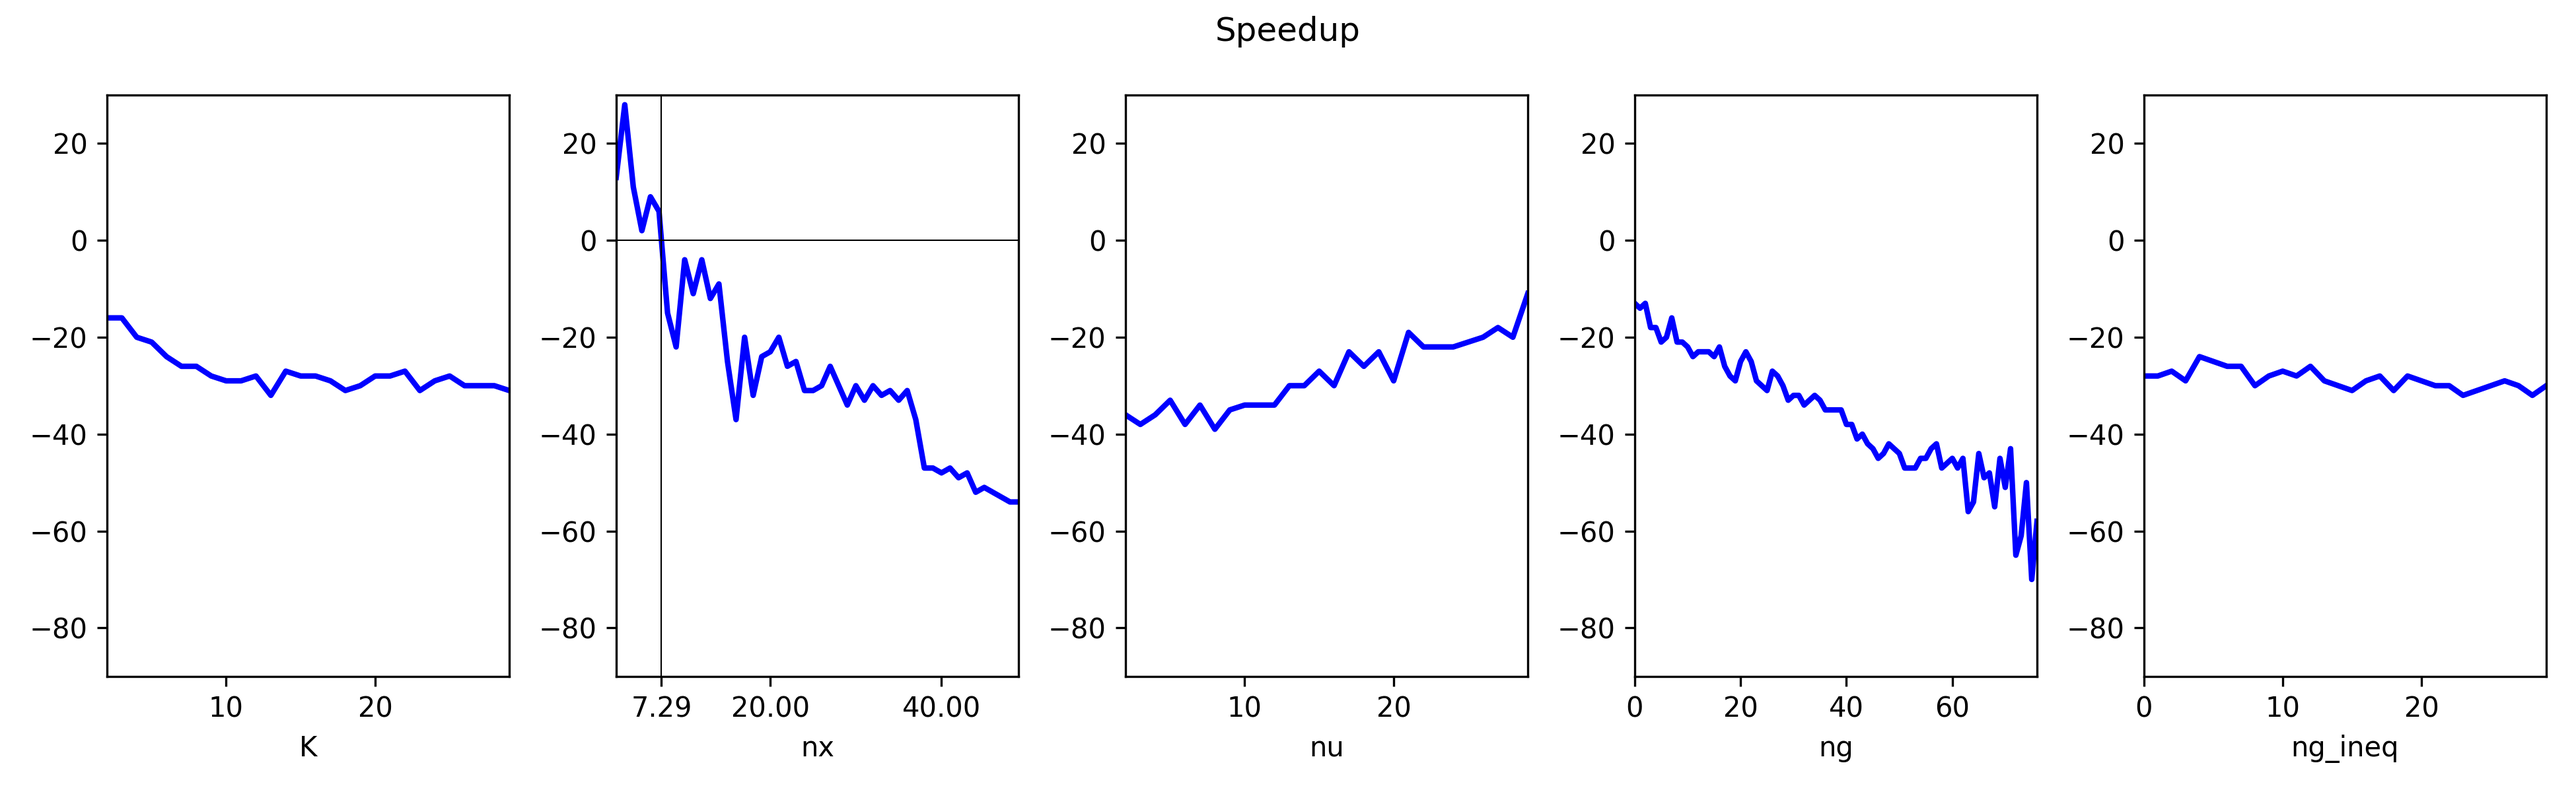
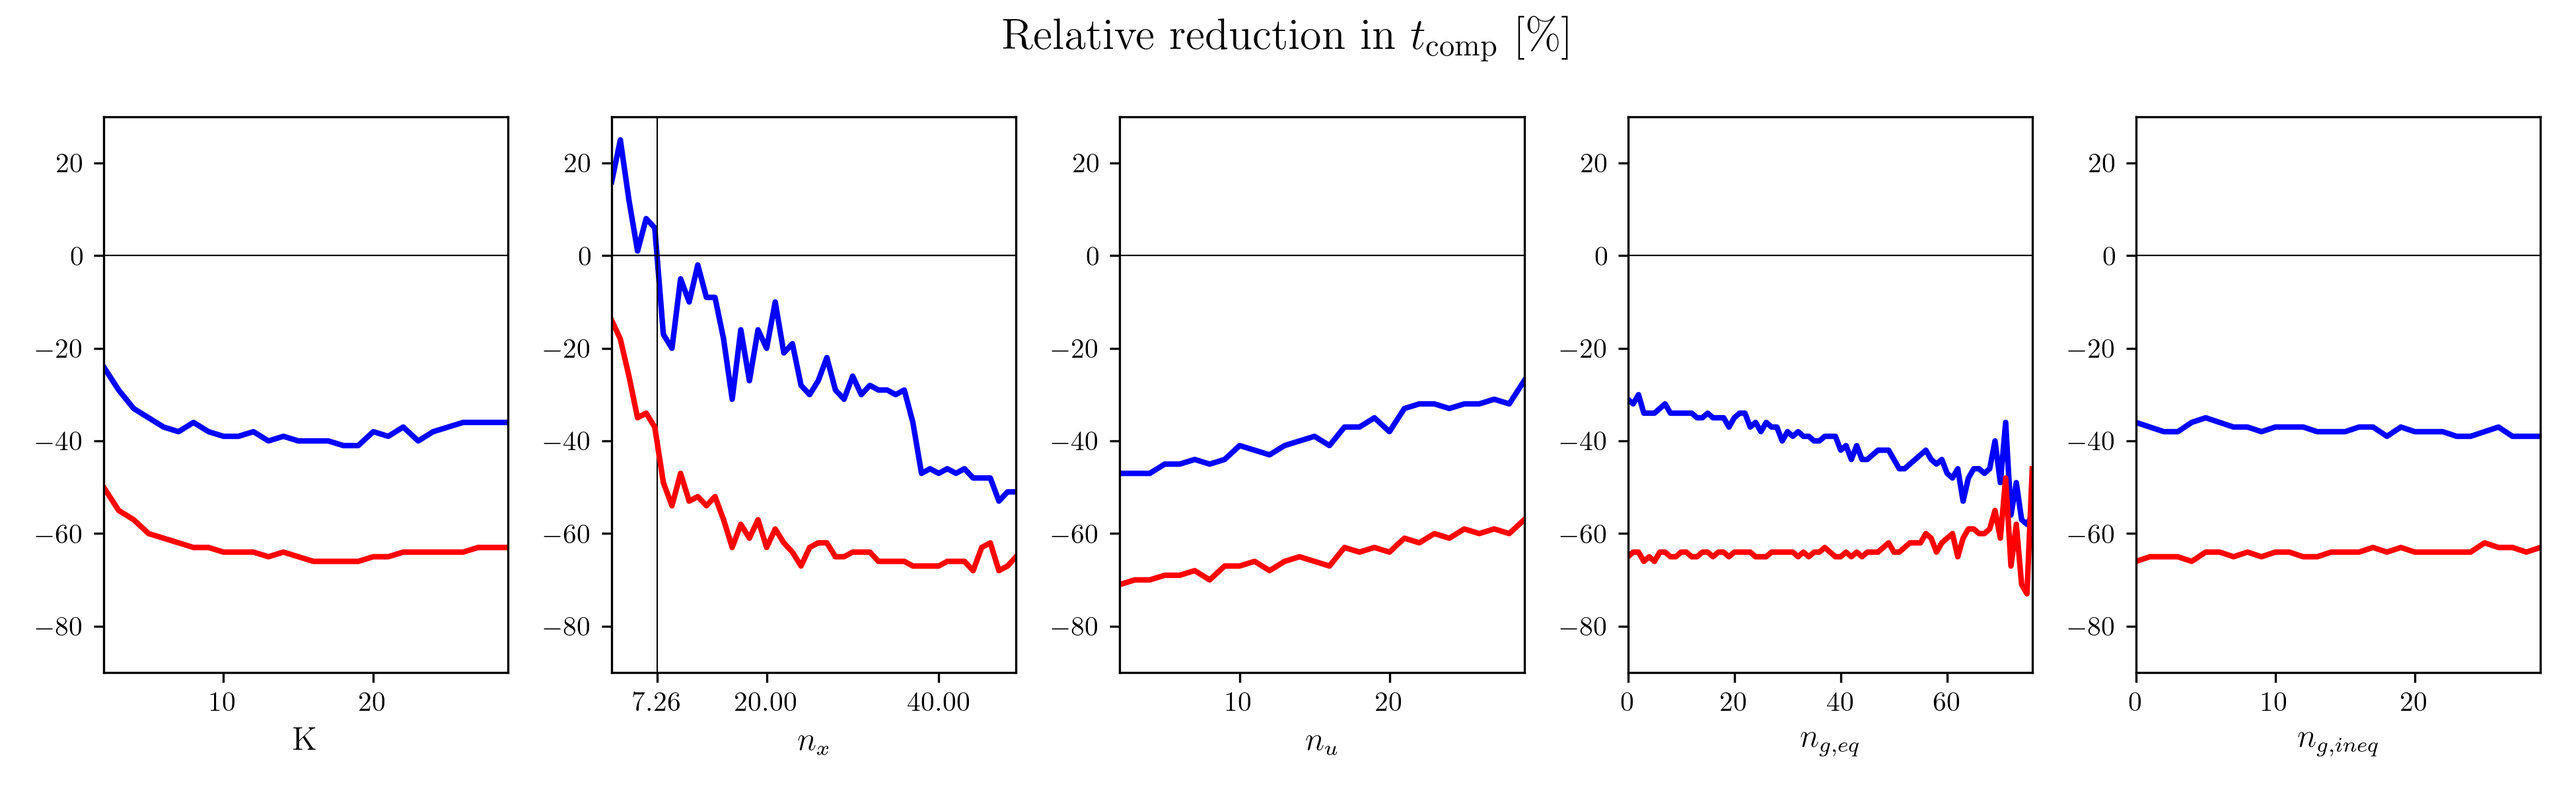
more updated figures

diff --git a/unittest/ocp/test_computation_time_scaling.py b/unittest/ocp/test_computation_time_scaling.py
@@ -1,6 +1,8 @@
 import matplotlib.pyplot as plt
+import matplotlib.colors as mcolors
 from mpl_toolkits.mplot3d import Axes3D
 import numpy as np
+import sympy as sp
 
 import sys
 sys.path.append('build/unittest/')
@@ -22,6 +24,18 @@ def latexify():
     })
 latexify()
 
+def translate_label_names(label):
+    if label == "nx":
+        return "$n_x$"
+    elif label == "nu":
+        return "$n_u$"
+    elif label == "ng":
+        return "$n_{g,eq}$"
+    elif label == "ng_ineq":
+        return "$n_{g,ineq}$"
+    else:
+        return label
+
 def preprocessing(nx, nu, nxp):
     return nxp*(nx + nu + 1)*(2*nxp - 1) + \
         (nx + nu)*(nx + nu + 1)*(4*nx - 1)
@@ -42,6 +56,17 @@ def backwardrecursion(nx, nu, nxp, ngp, ngi, rho, gamma):
         (nu - rho)**3/3 + \
         0.5*(nx + 1)*nx*(2*(nu - rho) - 1)
 
+def backwardrecursion_initial_stage(nx, nu, gamma, rho):
+    # w = min(gamma, nu + nx + 1)
+    w = gamma
+    return 2*w**3/3 - 2*w/3 + \
+        (nx - rho + 1)*nx*(2*rho - 1) + \
+        0.5*(nx - rho)*(nx - rho + 1)*(2*rho - 1) + \
+        (nx - rho)**3/3 - (nx - rho)/3
+
+def forwardrecursion_initial_stage(nx, rho):
+    return (nx - rho)*(2*rho - 1) + nx*(2*rho - 1)
+
 def forwardrecursion(nx, nu, nxp, ngi, rho, rhop, gammap):
     return nx*(2*(nu - rho) - 1) + \
         (nx + nu - rho)*(2*rho - 1) + \
@@ -54,12 +79,13 @@ def forwardrecursion(nx, nu, nxp, ngi, rho, rhop, gammap):
 def get_rough_flop_count(K, nx, nu, ng, **kwargs):
     implicit = kwargs.get('implicit', False)
     reformulated = kwargs.get('reformulated', False)
+    add_constant_offset = kwargs.get('add_constant_offset', False)
     if implicit and reformulated:
         raise ValueError("Cannot use both implicit and reformulated options together.")
     
     ngi = kwargs.get('ngi', 0.5*ng)
 
-    if not isinstance(nu, int):
+    if not isinstance(nu, int) and not isinstance(nu, sp.core.symbol.Symbol):
         nu = nu.copy()
         nx = nx.copy()
         ng = ng.copy()
@@ -74,7 +100,65 @@ def get_rough_flop_count(K, nx, nu, ng, **kwargs):
         flops  += preprocessing(nx, nu, nx) + \
                   postprocessing(nx, nu, nx)
 
-    return K*flops
+    return K*flops + backwardrecursion_initial_stage(nx, nu, ng, ng) + \
+              forwardrecursion_initial_stage(nx, ng) + 500000*add_constant_offset
+
+def simplify_flops(expr, vars_to_keep=['nx', 'nu'], other_vars=None):
+    # Define symbols to keep
+    keep_syms = sp.symbols(' '.join(vars_to_keep))
+    
+    # Identify all symbols in the expression
+    all_syms = expr.free_symbols
+    
+    # Determine symbols to treat as constant
+    if other_vars is None:
+        other_syms = all_syms - set(keep_syms)
+    else:
+        other_syms = sp.symbols(' '.join(other_vars))
+    
+    # Introduce a single constant to represent all other symbols
+    C = sp.symbols('C')
+    # subs_dict = {s: C for s in other_syms}
+    subs_dict = {}
+    
+    # Substitute and collect terms in keep_syms
+    simplified_expr = sp.collect(expr.subs(subs_dict), keep_syms)
+    
+    # Optional: expand for clarity
+    simplified_expr = sp.expand(simplified_expr)
+    
+    return simplified_expr
+
+def print_coeffs(expr, nx, nu):
+    # Convert to polynomial in nx and nu only
+    poly = sp.Poly(expr, nx, nu, domain='EX')  # domain='EX' keeps symbolic coeffs
+    
+    print("Monomial coefficients in nx, nu:")
+    for monom, coeff in zip(poly.monoms(), poly.coeffs()):
+        nx_pow, nu_pow = monom
+        print(f"nx^{nx_pow} * nu^{nu_pow} : {coeff}")
+
+def simplify_flop_count():
+    nx, nu, ng, ngi, K = sp.symbols('nx nu ng ngi K')
+
+    sym_flops_expl = get_rough_flop_count(K, nx, nu, ng, ngi=ngi, implicit=False, reformulated=False)
+    sym_flops_expl = sp.simplify(sym_flops_expl)
+
+    sym_flops_impl = get_rough_flop_count(K, nx, nu, ng, ngi=ngi, implicit=True, reformulated=False)
+    sym_flops_impl = sp.simplify(sym_flops_impl)
+
+    sym_flops_reform = get_rough_flop_count(K, nx, nu, ng, ngi=ngi, implicit=False, reformulated=True)
+    sym_flops_reform = sp.simplify(sym_flops_reform)
+
+    sym_rel_impl_reform = sp.simplify((sym_flops_impl - sym_flops_reform) / sym_flops_reform * 100)
+    # print(sym_rel_impl_reform)
+    print(simplify_flops(sym_rel_impl_reform))
+
+    num, den = sp.fraction(sym_rel_impl_reform)
+    print("Numerator:")
+    print_coeffs(num, nx, nu)
+    print("Denominator:")
+    print_coeffs(den, nx, nu)
 
 def visualize_3d():
     nx = np.arange(1, 15)
@@ -267,7 +351,8 @@ def plot_line_with_std(ax, x_vals, xx, time, color, alpha, x_vals_offsets=None, 
     for i in range(len(x_vals)):
         mask = (xx == x_vals[i]) & (time < MAX)
         std = np.std(time[mask])
-        t_vals[i] = np.median(time[mask])
+        # t_vals[i] = np.median(time[mask])
+        t_vals[i] = np.mean(time[mask])
         t_vals_min_std[i] = t_vals[i] - std
         t_vals_plus_std[i] = t_vals[i] + std
 
@@ -328,13 +413,13 @@ def show_2d_plot(data, **kwargs):
                                    linestyle=detail.get('linestyle', '-'))
             max_y_val = max(max_y_val, y)
 
-    ax.set_xlabel(independent_var)
+    ax.set_xlabel(translate_label_names(independent_var))
     # ax.set_ylabel('t_comp [us]')
     ax.set_xlim([np.min(x_vals), np.max(x_vals)])
     curr_y_lim = ax.get_ylim()
     ax.set_ylim([0, max(curr_y_lim[1], 1.1*max_y_val)])
 
-    ylog_vars = []#['nx', 'nu', 'ng']
+    ylog_vars = ['nx']#, 'nu', 'ng']
     if independent_var in ylog_vars:
         ax.set_yscale('log')
         ax.set_ylim([10, max(curr_y_lim[1], 1.1*max_y_val)])
@@ -391,30 +476,42 @@ def show_flops_2d_plot(data, **kwargs):
     t_vals = 0*x_vals
     t_vals_min_std = 0*t_vals
     t_vals_plus_std = 0*t_vals
+    t_vals_offset = 0*x_vals
+    t_vals_min_std_offset = 0*t_vals
+    t_vals_plus_std_offset = 0*t_vals
 
-    for i in range(len(xx)):
-        T[i] = get_rough_flop_count(data['K'][i], data['nx'][i], data['nu'][i], 
-                                    data['ng'][i], 
-                                    implicit=kwargs.get("implicit", False), 
-                                    reformulated=kwargs.get("reformulated", False))
+    T = get_rough_flop_count(data['K'], data['nx'], data['nu'], data['ng'], 
+                             implicit=kwargs.get("implicit", False), 
+                             reformulated=kwargs.get("reformulated", False))
+    T_offset = get_rough_flop_count(data['K'], data['nx'], data['nu'], data['ng'], 
+                             implicit=kwargs.get("implicit", False), 
+                             reformulated=kwargs.get("reformulated", False), 
+                             add_constant_offset=True)
 
     for i in range(len(x_vals)):
         mask = (xx == x_vals[i])
         std = np.std(T[mask])
-        t_vals[i] = np.median(T[mask])
+        # t_vals[i] = np.median(T[mask])
+        t_vals[i] = np.mean(T[mask])
         t_vals_min_std[i] = t_vals[i] - std
         t_vals_plus_std[i] = t_vals[i] + std
 
-    ax.fill_between(x_vals, t_vals_min_std, t_vals_plus_std, color=color, alpha=0.1)
-    ax.plot(x_vals, t_vals, color=color)
+        t_vals_offset[i] = np.mean(T_offset[mask])
+        t_vals_min_std_offset[i] = t_vals_offset[i] - std
+        t_vals_plus_std_offset[i] = t_vals_offset[i] + std
 
-    ax.set_xlabel(independent_var)
+    ax.fill_between(x_vals, t_vals_min_std, t_vals_plus_std, color=color, alpha=0.1)
+    # ax.fill_between(x_vals, t_vals_min_std_offset, t_vals_plus_std_offset, color=color, alpha=0.1)
+    ax.plot(x_vals, t_vals, color=color)
+    # ax.plot(x_vals, t_vals_offset, color=color, linestyle=':')
+
+    ax.set_xlabel(translate_label_names(independent_var))
     # ax.set_ylabel('# flops')
     ax.set_xlim([np.min(x_vals), np.max(x_vals)])
     curr_y_lim = ax.get_ylim()
     ax.set_ylim([0, max(curr_y_lim[1], 1.1*np.max(t_vals_plus_std))])
 
-    ylog_vars = []#['nx', 'nu', 'ng']
+    ylog_vars = ['nx']#, 'nu', 'ng']
     if independent_var in ylog_vars:
         ax.set_yscale('log')
         ax.set_ylim([1e5, max(curr_y_lim[1], 1.1*np.max(t_vals_plus_std))])
@@ -442,6 +539,7 @@ def show_speedup_2d_plot(data, data_base, **kwargs):
     show = kwargs.get('show', True)
     independent_var = kwargs.get('independent_var', 'nx')
     show_expected_speedup = kwargs.get('show_expected_speedup', False)
+    implicit = kwargs.get('implicit', True)
     if independent_var not in ['K', 'nx', 'nu', 'ng', 'ng_ineq']:
         raise ValueError("independent_var must be in ['K', 'nx', 'nu', 'ng', 'ng_ineq']")
 
@@ -473,30 +571,39 @@ def show_speedup_2d_plot(data, data_base, **kwargs):
         xx_base = data_base['ng_ineq']
 
     t_vals = 0*x_vals
+    ax.plot([x_vals[0], x_vals[-1]], [0, 0], color='k', linestyle='-', linewidth=0.5)
     if show_expected_speedup:
         t_vals_expected = 0*x_vals
-        flops = get_rough_flop_count(data['K'], data['nx'], 
-                                        data['nu'], data['ng'],
-                                        ngi=data['ng_ineq'],
-                                        implicit=True,
-                                        reformulated=False)
+        t_vals_expected_offset = 0*x_vals
+        flops = get_rough_flop_count(data['K'], data['nx'], data['nu'], 
+            data['ng'], ngi=data['ng_ineq'], implicit=implicit, reformulated=False)
         flops_base = get_rough_flop_count(data_base['K'], data_base['nx'],
-                                            data_base['nu'], data_base['ng'],
-                                            ngi=data_base['ng_ineq'],
-                                            implicit=False,
-                                            reformulated=True)
+            data_base['nu'], data_base['ng'], ngi=data_base['ng_ineq'],
+            implicit=False, reformulated=True)
+        flops_offset = get_rough_flop_count(data['K'], data['nx'], data['nu'], 
+            data['ng'], ngi=data['ng_ineq'], implicit=implicit, 
+            reformulated=False, add_constant_offset=True)
+        flops_base_offset = get_rough_flop_count(data_base['K'], 
+            data_base['nx'], data_base['nu'], data_base['ng'], 
+            ngi=data_base['ng_ineq'], implicit=False, reformulated=True,
+            add_constant_offset=True)
+            
     MAX = 5000
     for i in range(len(x_vals)):
         mask = (xx == x_vals[i])
         mask_base = (xx_base == x_vals[i])
-        t_vals[i] = (np.median(data['time'][mask]) - np.median(data_base['time'][mask_base])) / np.median(data_base['time'][mask_base])*100
+        # t_vals[i] = (np.median(data['time'][mask]) - np.median(data_base['time'][mask_base])) / np.median(data_base['time'][mask_base])*100
+        t_vals[i] = (np.mean(data['time'][mask]) - np.mean(data_base['time'][mask_base])) / np.mean(data_base['time'][mask_base])*100
 
         if show_expected_speedup:
-            t_vals_expected[i] = (np.median(flops[mask]) - np.median(flops_base[mask_base])) / np.median(flops_base[mask_base]) * 100
+            # t_vals_expected[i] = (np.median(flops[mask]) - np.median(flops_base[mask_base])) / np.median(flops_base[mask_base]) * 100
+            t_vals_expected[i] = (np.mean(flops[mask]) - np.mean(flops_base[mask_base])) / np.mean(flops_base[mask_base]) * 100
+            # t_vals_expected_offset[i] = (np.mean(flops_offset[mask]) - np.mean(flops_base_offset[mask_base])) / np.mean(flops_base_offset[mask_base]) * 100
 
     lw = 2
     if show_expected_speedup:
-        ax.plot(x_vals, t_vals_expected, '-', color='k', linewidth=lw, alpha=0.5)
+        ax.plot(x_vals, t_vals_expected, '-', color=color, linewidth=lw, alpha=0.2)
+        # ax.plot(x_vals, t_vals_expected_offset, ':', color=color, linewidth=lw, alpha=0.2)
     ax.plot(x_vals, t_vals, '-', color=color, linewidth=lw)
 
     # find nx closest to zero and highlight this crossover value
@@ -515,7 +622,7 @@ def show_speedup_2d_plot(data, data_base, **kwargs):
             xticks.sort()
             ax.set_xticks(xticks)
 
-    ax.set_xlabel(independent_var)
+    ax.set_xlabel(translate_label_names(independent_var))
     # ax.set_ylabel('speedup')
     ax.set_xlim([np.min(x_vals), np.max(x_vals)])
 
@@ -539,6 +646,50 @@ def show_speedup_2d_plot_all_cases(data_all_cases, **kwargs):
                          ax=ax, color='b', show=show, implicit=True, independent_var=iv,
                          show_expected_speedup=kwargs.get('show_expected_speedup', False))
 
+    show_speedup_2d_plot(data_all_cases['explicit'], data_all_cases['reformulation'],
+                         ax=ax, color='r', show=show, implicit=False, independent_var=iv,
+                         show_expected_speedup=kwargs.get('show_expected_speedup', False))
+
+def show_speedup_heatmap(ax, data, data_base, var1, var2):
+    x_vals = np.unique(data[var1])
+    y_vals = np.unique(data[var2])
+
+    xx, yy = np.meshgrid(x_vals, y_vals, indexing='ij')
+    speedup = np.zeros(xx.shape)
+
+    for i in range(len(x_vals)):
+        for j in range(len(y_vals)):
+            mask = (data[var1] == x_vals[i]) & (data[var2] == y_vals[j])
+            mask_base = (data_base[var1] == x_vals[i]) & (data_base[var2] == y_vals[j])
+            speedup[i, j] = (np.mean(data['time'][mask]) - np.mean(data_base['time'][mask_base])) / np.mean(data_base['time'][mask_base]) * 100
+
+    # plot heatmap
+    norm = mcolors.TwoSlopeNorm(vmin=-100, vcenter=0, vmax=100)
+    c = ax.pcolormesh(xx, yy, speedup, shading='auto', cmap='seismic', norm=norm)
+    ax.set_xlabel(translate_label_names(var1))
+    ax.set_ylabel(translate_label_names(var2))
+    
+    return c
+
+def show_speedup_heatmap_all_plots(data, data_base, vars):
+    fig, axs = plt.subplots(len(vars)-1, len(vars)-1, figsize=(9, 9))
+    for i, var1 in enumerate(vars):
+        for j, var2 in enumerate(vars):
+            if i <= j:
+                continue
+            print(f"{var1} ({i}) vs {var2} ({j})")
+            c = show_speedup_heatmap(axs[i-1, j], data, data_base, var1, var2)
+            # axs[i, j].set_title(f"{translate_label_names(var1)} vs {translate_label_names(var2)}")
+    
+    for i in range(len(vars)-1):
+        for j in range(i+1, len(vars)-1):
+            axs[i,j].set_visible(False)
+
+    fig.subplots_adjust(right=0.85)
+    cbar_ax = fig.add_axes([0.85, 0.3, 0.03, 0.6])  # [left, bottom, width, height]
+    cbar = fig.colorbar(c, cax=cbar_ax, label=r"Relative reduction in $t_\mathrm{comp}$ [\%]")
+
+    plt.tight_layout()
 
 def add_legend_below(fig, timing_details=None):
     # create some space below the axes
@@ -600,18 +751,20 @@ if __name__ == "__main__":
                       'reformulation': data_reformulation, 
                       'implicit': data_implicit}
     
+    # simplify_flop_count()
+    # exit()
 
     VISUALIZE_FLOPS = True
     VISUALIZE_EXPERIMENTS = True
     VISUALIZE_SPEEDUP = True
     VISUALIZE_EXPECTED_SPEEDUP = True
-
+    VISUALIZE_2D_SPEEDUP = True
 
     ### visualize flop counts
     if VISUALIZE_FLOPS:
         print(f"Visualizing flop counts")
         fig, axs = plt.subplots(1, 5, figsize=(13, 4))
-        fig.suptitle("# FLOPs")
+        fig.suptitle(r"\# FLOPs")
         show_flops_2d_plot_all_cases(data_all_cases, ax=axs[0], independent_var='K')
         show_flops_2d_plot_all_cases(data_all_cases, ax=axs[1], independent_var='nx')
         show_flops_2d_plot_all_cases(data_all_cases, ax=axs[2], independent_var='nu')
@@ -624,7 +777,7 @@ if __name__ == "__main__":
     if VISUALIZE_EXPERIMENTS:
         print(f"Visualizing experiments")
         fig, axs = plt.subplots(1, 5, figsize=(13, 4))
-        fig.suptitle("t_comp [us]")
+        fig.suptitle(r"$t_\mathrm{comp}$ [$\mu s$]")
         show_2d_plot_all_cases(data_all_cases, ax=axs[0], independent_var='K', implicit_timings_details=timing_details_implicit)
         show_2d_plot_all_cases(data_all_cases, ax=axs[1], independent_var='nx', implicit_timings_details=timing_details_implicit)
         show_2d_plot_all_cases(data_all_cases, ax=axs[2], independent_var='nu', implicit_timings_details=timing_details_implicit)
@@ -637,7 +790,7 @@ if __name__ == "__main__":
     if VISUALIZE_SPEEDUP:
         print(f"Visualizing speedup")
         fig, axs = plt.subplots(1, 5, figsize=(13, 4))
-        fig.suptitle("Speedup")
+        fig.suptitle(r"Relative reduction in $t_\mathrm{comp}$ [\%]")
         show_speedup_2d_plot_all_cases(data_all_cases, ax=axs[0], independent_var='K')
         show_speedup_2d_plot_all_cases(data_all_cases, ax=axs[1], independent_var='nx')
         show_speedup_2d_plot_all_cases(data_all_cases, ax=axs[2], independent_var='nu')
@@ -651,7 +804,7 @@ if __name__ == "__main__":
     if VISUALIZE_EXPECTED_SPEEDUP:
         print(f"Visualizing expected speedup")
         fig, axs = plt.subplots(1, 5, figsize=(13, 4))
-        fig.suptitle("Expected Speedup")
+        fig.suptitle(r"Relative reduction in computation time [\%]")
         show_speedup_2d_plot_all_cases(data_all_cases, show_expected_speedup=True, ax=axs[0], independent_var='K')
         show_speedup_2d_plot_all_cases(data_all_cases, show_expected_speedup=True, ax=axs[1], independent_var='nx')
         show_speedup_2d_plot_all_cases(data_all_cases, show_expected_speedup=True, ax=axs[2], independent_var='nu')
@@ -661,8 +814,12 @@ if __name__ == "__main__":
         plt.tight_layout()
         plt.savefig("unittest/ocp/figures/expected_speedup_scaling.png", dpi=300)
 
+    if VISUALIZE_2D_SPEEDUP:
+        print(f"Visualizing 2d speedup")
+        show_speedup_heatmap_all_plots(data_implicit, data_reformulation, ['nx', 'nu', 'K', 'ng', 'ng_ineq'])
+        plt.savefig("unittest/ocp/figures/speedup_heatmap.png", dpi=300)
 
-    # plt.show()
+    plt.show()
 
     ### see how well flop count behaviour matches computation time
     # visualize_experiments_vs_flop_count(X_explicit, Y_explicit, Z_explicit)
